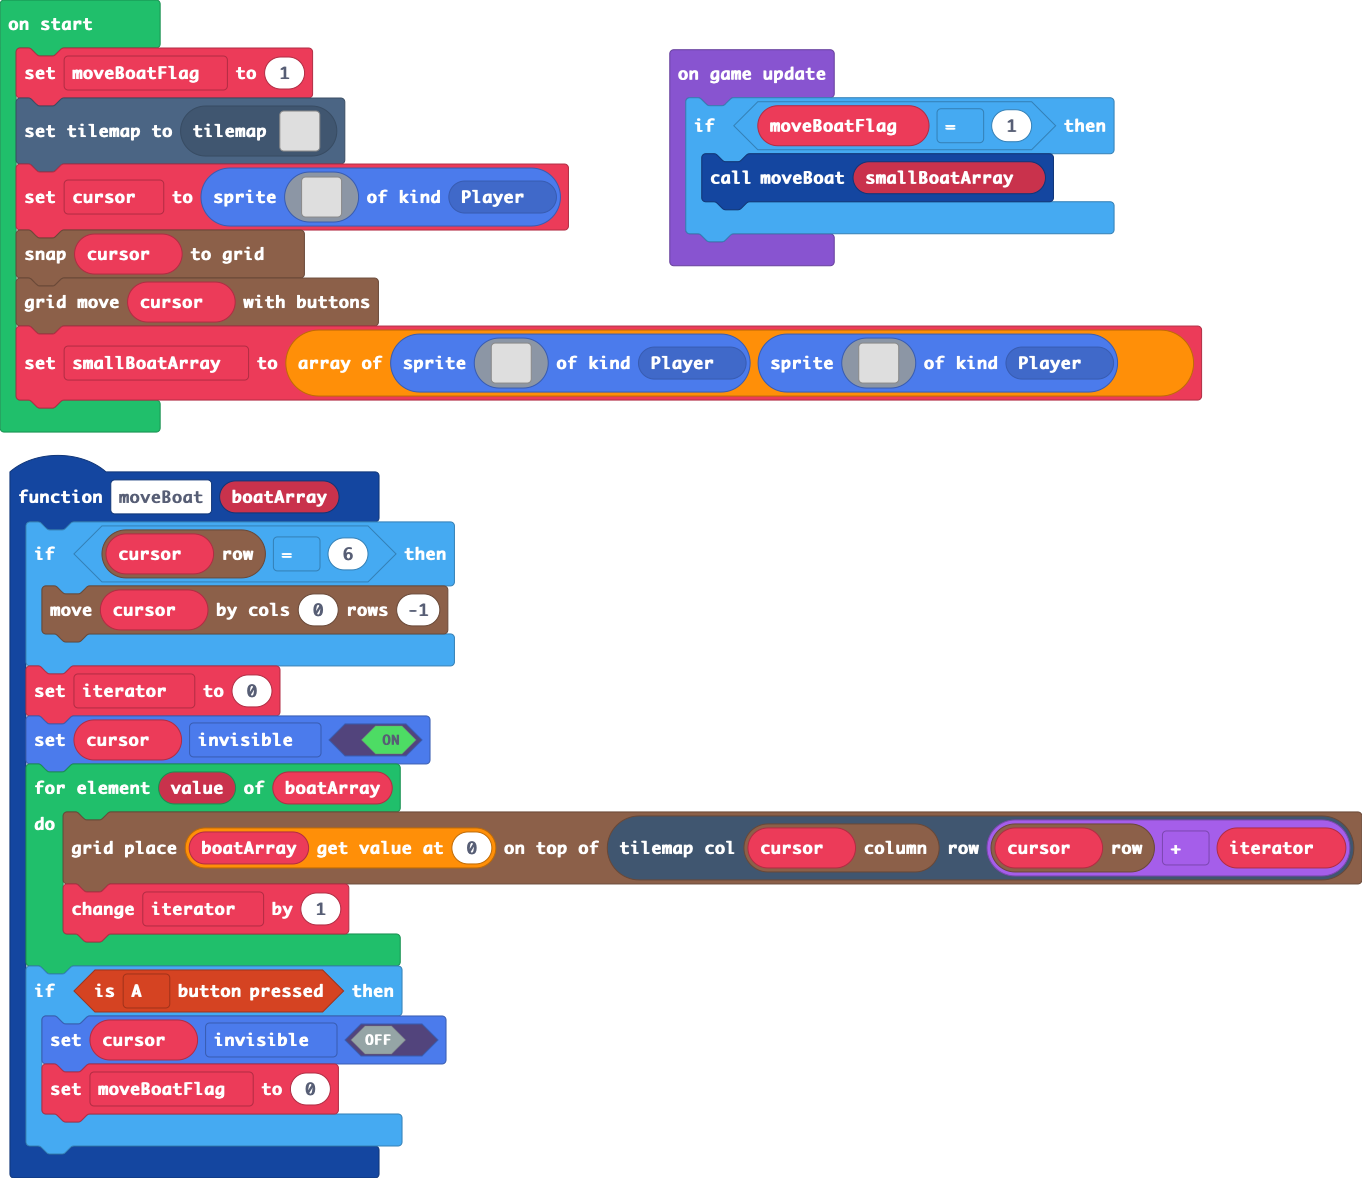
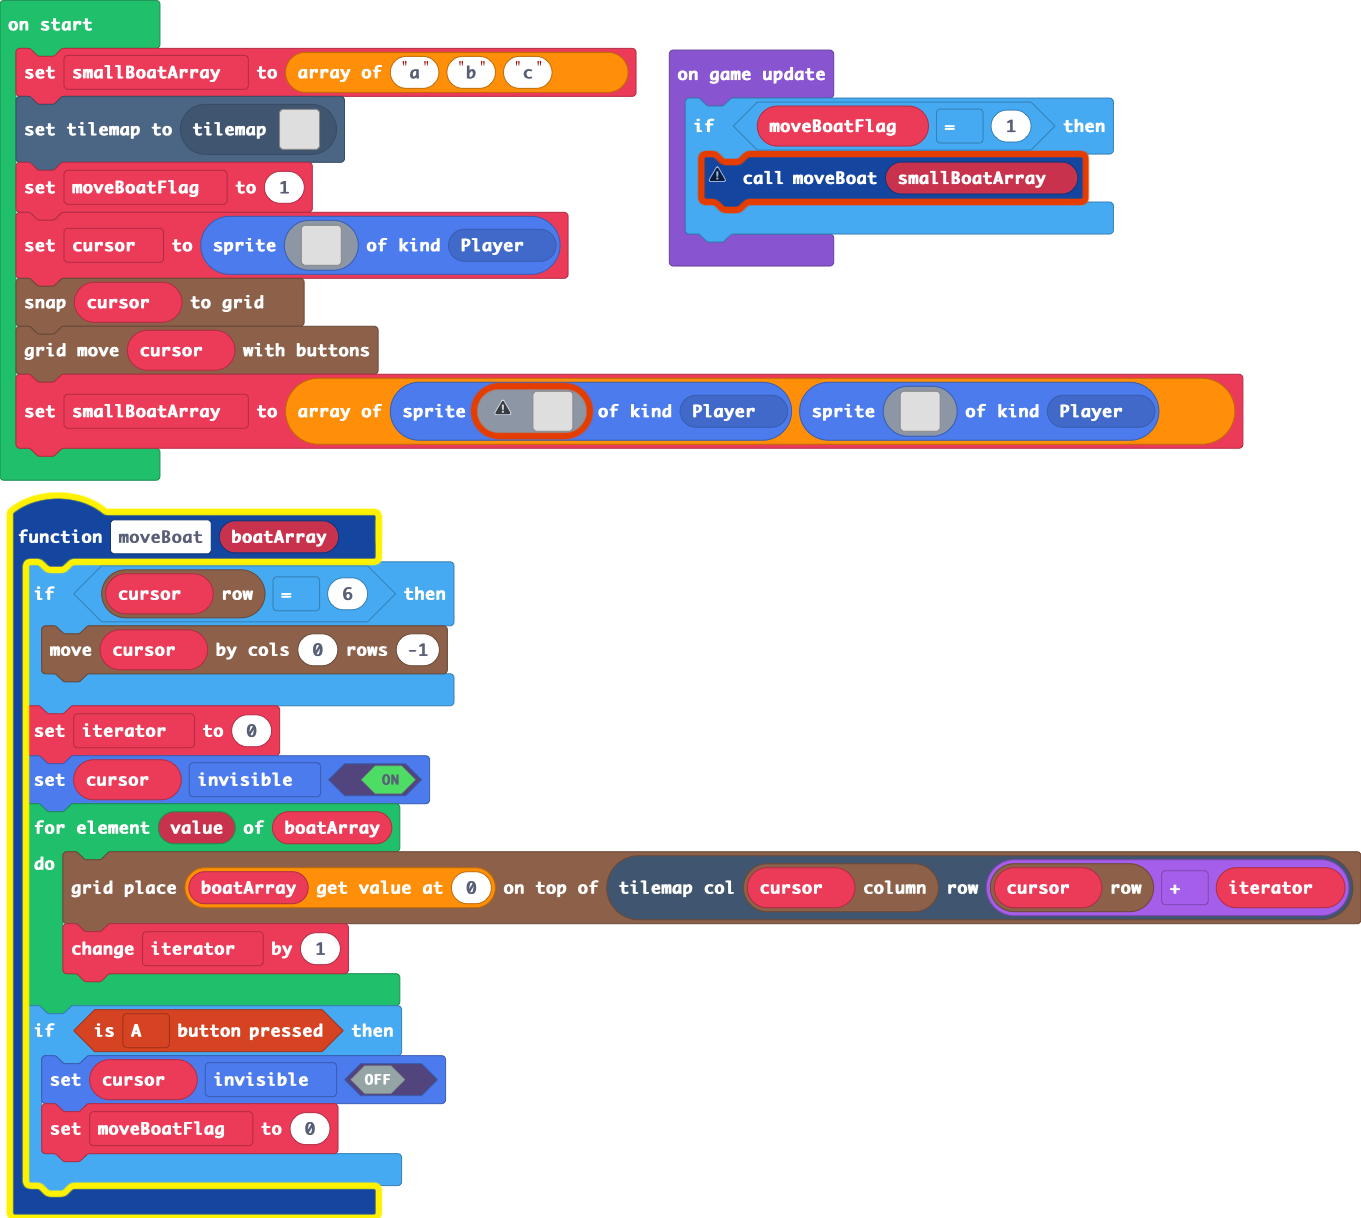
made boat array

Changed region(s): [[0.0, 0.0, 1.0, 1.0]]

diff --git a/main.ts b/main.ts
@@ -16,8 +16,9 @@ function moveBoat (boatArray: Sprite[]) {
 let iterator = 0
 let cursor: Sprite = null
 let moveBoatFlag = 0
-moveBoatFlag = 1
+let smallBoatArray = ["a", "b", "c"]
 tiles.setCurrentTilemap(tilemap`level1`)
+moveBoatFlag = 1
 cursor = sprites.create(img`
     1 1 1 1 1 . . . . . . 1 1 1 1 1 
     1 1 1 . . . . . . . . . . 1 1 1 
@@ -38,7 +39,7 @@ cursor = sprites.create(img`
     `, SpriteKind.Player)
 grid.snap(cursor)
 grid.moveWithButtons(cursor)
-let smallBoatArray = [sprites.create(img`
+smallBoatArray = [sprites.create(img`
     . . . . . b b b b b b . . . . . 
     . . . b b 9 9 9 9 9 9 b b . . . 
     . . b b 9 9 9 9 9 9 9 9 b b . . 
